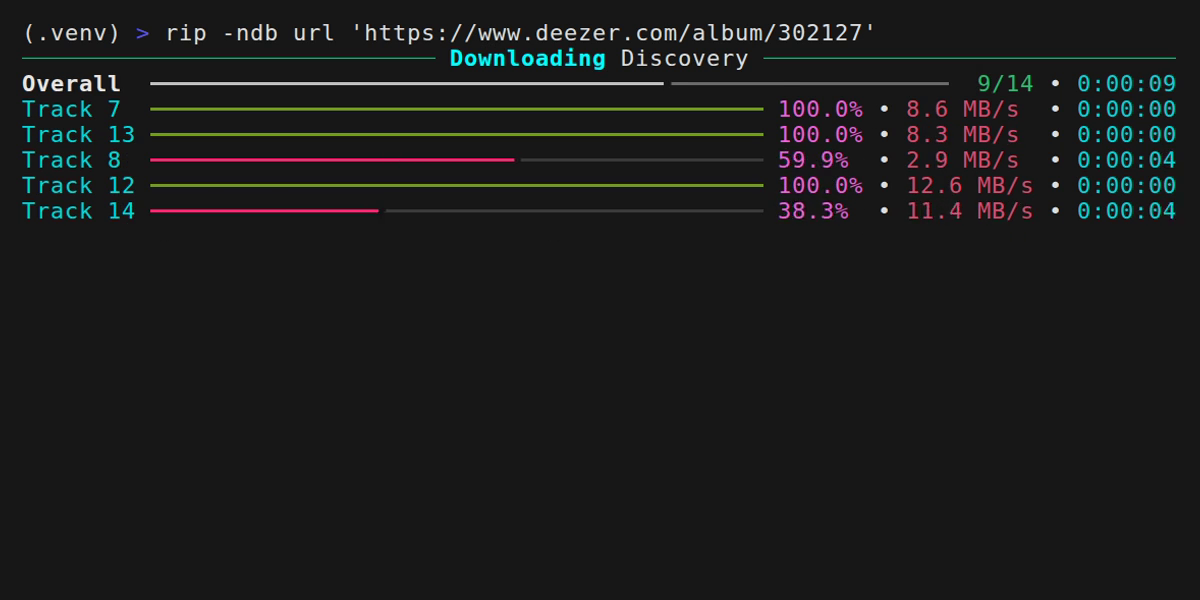
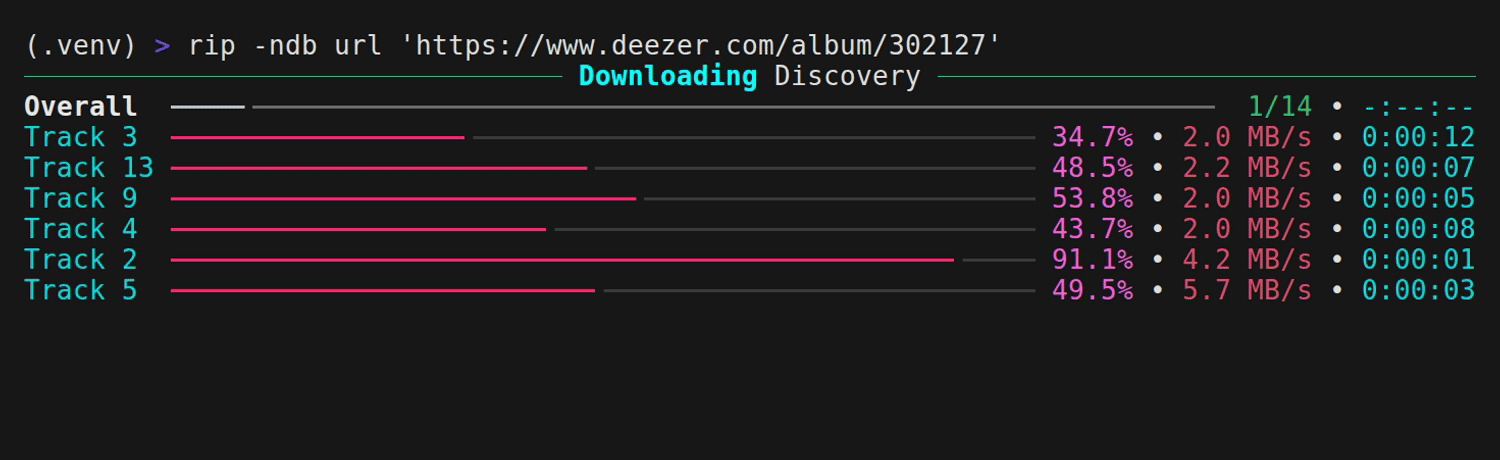
build(demo): render the screenshots through a GIF, not an MP4
The captures were blurry for a concrete reason: build_demos.sh pulled the
still out of an intermediate MP4, and 4:2:0 chroma subsampling plus DCT
compression smear coloured terminal text. It shows as orange and blue
fringing around white glyphs, and measures as 37,286 distinct colours in a
screenshot that a clean terminal render draws with a few dozen. The
intermediate is now a GIF — palette-based, no chroma subsampling — which puts
the same image at 255 colours, and the tapes render larger (FontSize 26,
width 1500) so the still stays sharp when scaled down in the README.

Regenerating exposed two captures that had drifted off their subject:

- the album one no longer showed any progress bars. Batched URL resolution
  has made a 14-track album finish in ~18s, inside the tape's 22s sleep, so
  the last frame was the summary on an empty screen. Sleep is down to 8s and
  the height trimmed to the eight lines the bars actually occupy;
- the help page scrolled at the larger font, cutting off its own `Usage:`
  line. Height covers the full page again, with the arithmetic written down
  so the next person can redo it when the help text grows.

Ported from the sibling FlashDance project, along with its preflight check:
without it, a missing .venv/bin/rip silently captured a traceback instead of
the intended screen.

Changed region(s): [[0.0, 0.0304, 0.9867, 0.6696]]

diff --git a/CHANGES.md b/CHANGES.md
@@ -173,6 +173,7 @@ The main evolutions focus on Deezer and the following areas:
 - Added a curated `vulture` whitelist (`.vulture_whitelist.py` + `[tool.vulture]` in `pyproject.toml`) so dead-code analysis runs clean and genuinely new dead code stands out. Tidal/Qobuz methods that are unused in this Deezer-focused fork are whitelisted rather than deleted, to preserve parity with upstream and avoid merge conflicts.
 - Aligned the local ruff with CI. The `Ruff` workflow uses `astral-sh/ruff-action@v3` without a version pin, so CI always installs the latest ruff while `pyproject.toml` capped it at `^0.1` (lock: 0.1.15). `RUF036` was stabilised in ruff 0.16 and turned CI red on untouched code the local venv could not see. The dev dependency is now `ruff >= 0.16` and `preview = true` is enabled, so rules that are about to be stabilised surface locally first. `unused-async` and `used-dummy-variable` are ignored deliberately (async test fakes must match the mocked interface; `_` marks private state here). Inline suppressions use ruff's `# ruff: ignore[...]` syntax and `lint.select` uses rule names, as `redirected-noqa` and `rule-code-in-select` require.
 - Removed `black`, `isort` and `flake8` from the dev dependencies: unused, with no config files and no CI step, and fully covered by ruff (`I` = isort, `E`/`F` = the core of flake8, `[tool.ruff.format]` = black).
+- The demo screenshots are no longer blurry. `build_demos.sh` extracted the still from an intermediate MP4, whose 4:2:0 chroma subsampling and DCT compression smeared coloured terminal text — visible as orange and blue fringes around white glyphs, and measurable as 37,000 distinct colours in a screenshot a clean terminal render would draw with a few dozen. The intermediate is now a GIF, which has neither, and the tapes render larger (FontSize 26, width 1500) so the still stays sharp when scaled down in the README. The captures also stopped missing their subject: the album one raced past its own progress bars, because batched URL resolution had made the download finish inside the tape's sleep, and the help page scrolled off its `Usage:` line at the new font size. Both tapes now say what their timing and height depend on. Ported from the sibling FlashDance project, with a preflight check that fails loudly when `.venv/bin/rip` is missing rather than capturing a traceback.
 - Project metadata migrated to PEP 621 (`[project]`). Poetry 2.x deprecates the `[tool.poetry]` metadata form and warned about it on every invocation. Poetry's caret ranges have no PEP 508 equivalent, so each constraint was written out explicitly, and the `platform = 'darwin|linux'` fields became environment markers. Checked rather than assumed: `poetry lock` resolves the same versions for all 57 packages, and the built wheel is identical in file list, entry points and `Requires-Dist`, leaving only the intended PEP 639 change (`License-Expression` replacing the `License` field and its GPL classifiers). The `Programming Language :: Python :: 3.x` classifiers, which Poetry used to derive from the python constraint and no longer derives in PEP 621 mode, are now spelled out — they would otherwise have silently vanished from the package page.
 - `click` is now a declared dependency. `config.py`, `rip/cli.py` and `rip/prompter.py` import it directly, but it only arrived through `click-help-colors`, whose constraint is `>=7.0,<9`: a resolution landing on click 7 would have broken the import with nothing in the manifest to explain it.
 - `ruff format` is now enforced. `[tool.ruff.format]` described a style nothing ran, so 54 of 99 files had drifted from it. Enabling it as-is would have made things worse: `preview = true` lives under `[tool.ruff]` for the linter's sake — so that rules about to be stabilised surface locally before they redden CI — but it applies to the formatter too, whose preview styles are not frozen. Formatting in preview would have baked in a layout that moves again at the next ruff bump and that upstream does not use. The formatter is pinned back to stable explicitly, the repository is formatted, `ruff format --check` runs as its own CI step, and the bulk-reformat commit is listed in `.git-blame-ignore-revs`. The reformat changed no behaviour: the AST of every touched file is identical before and after.
